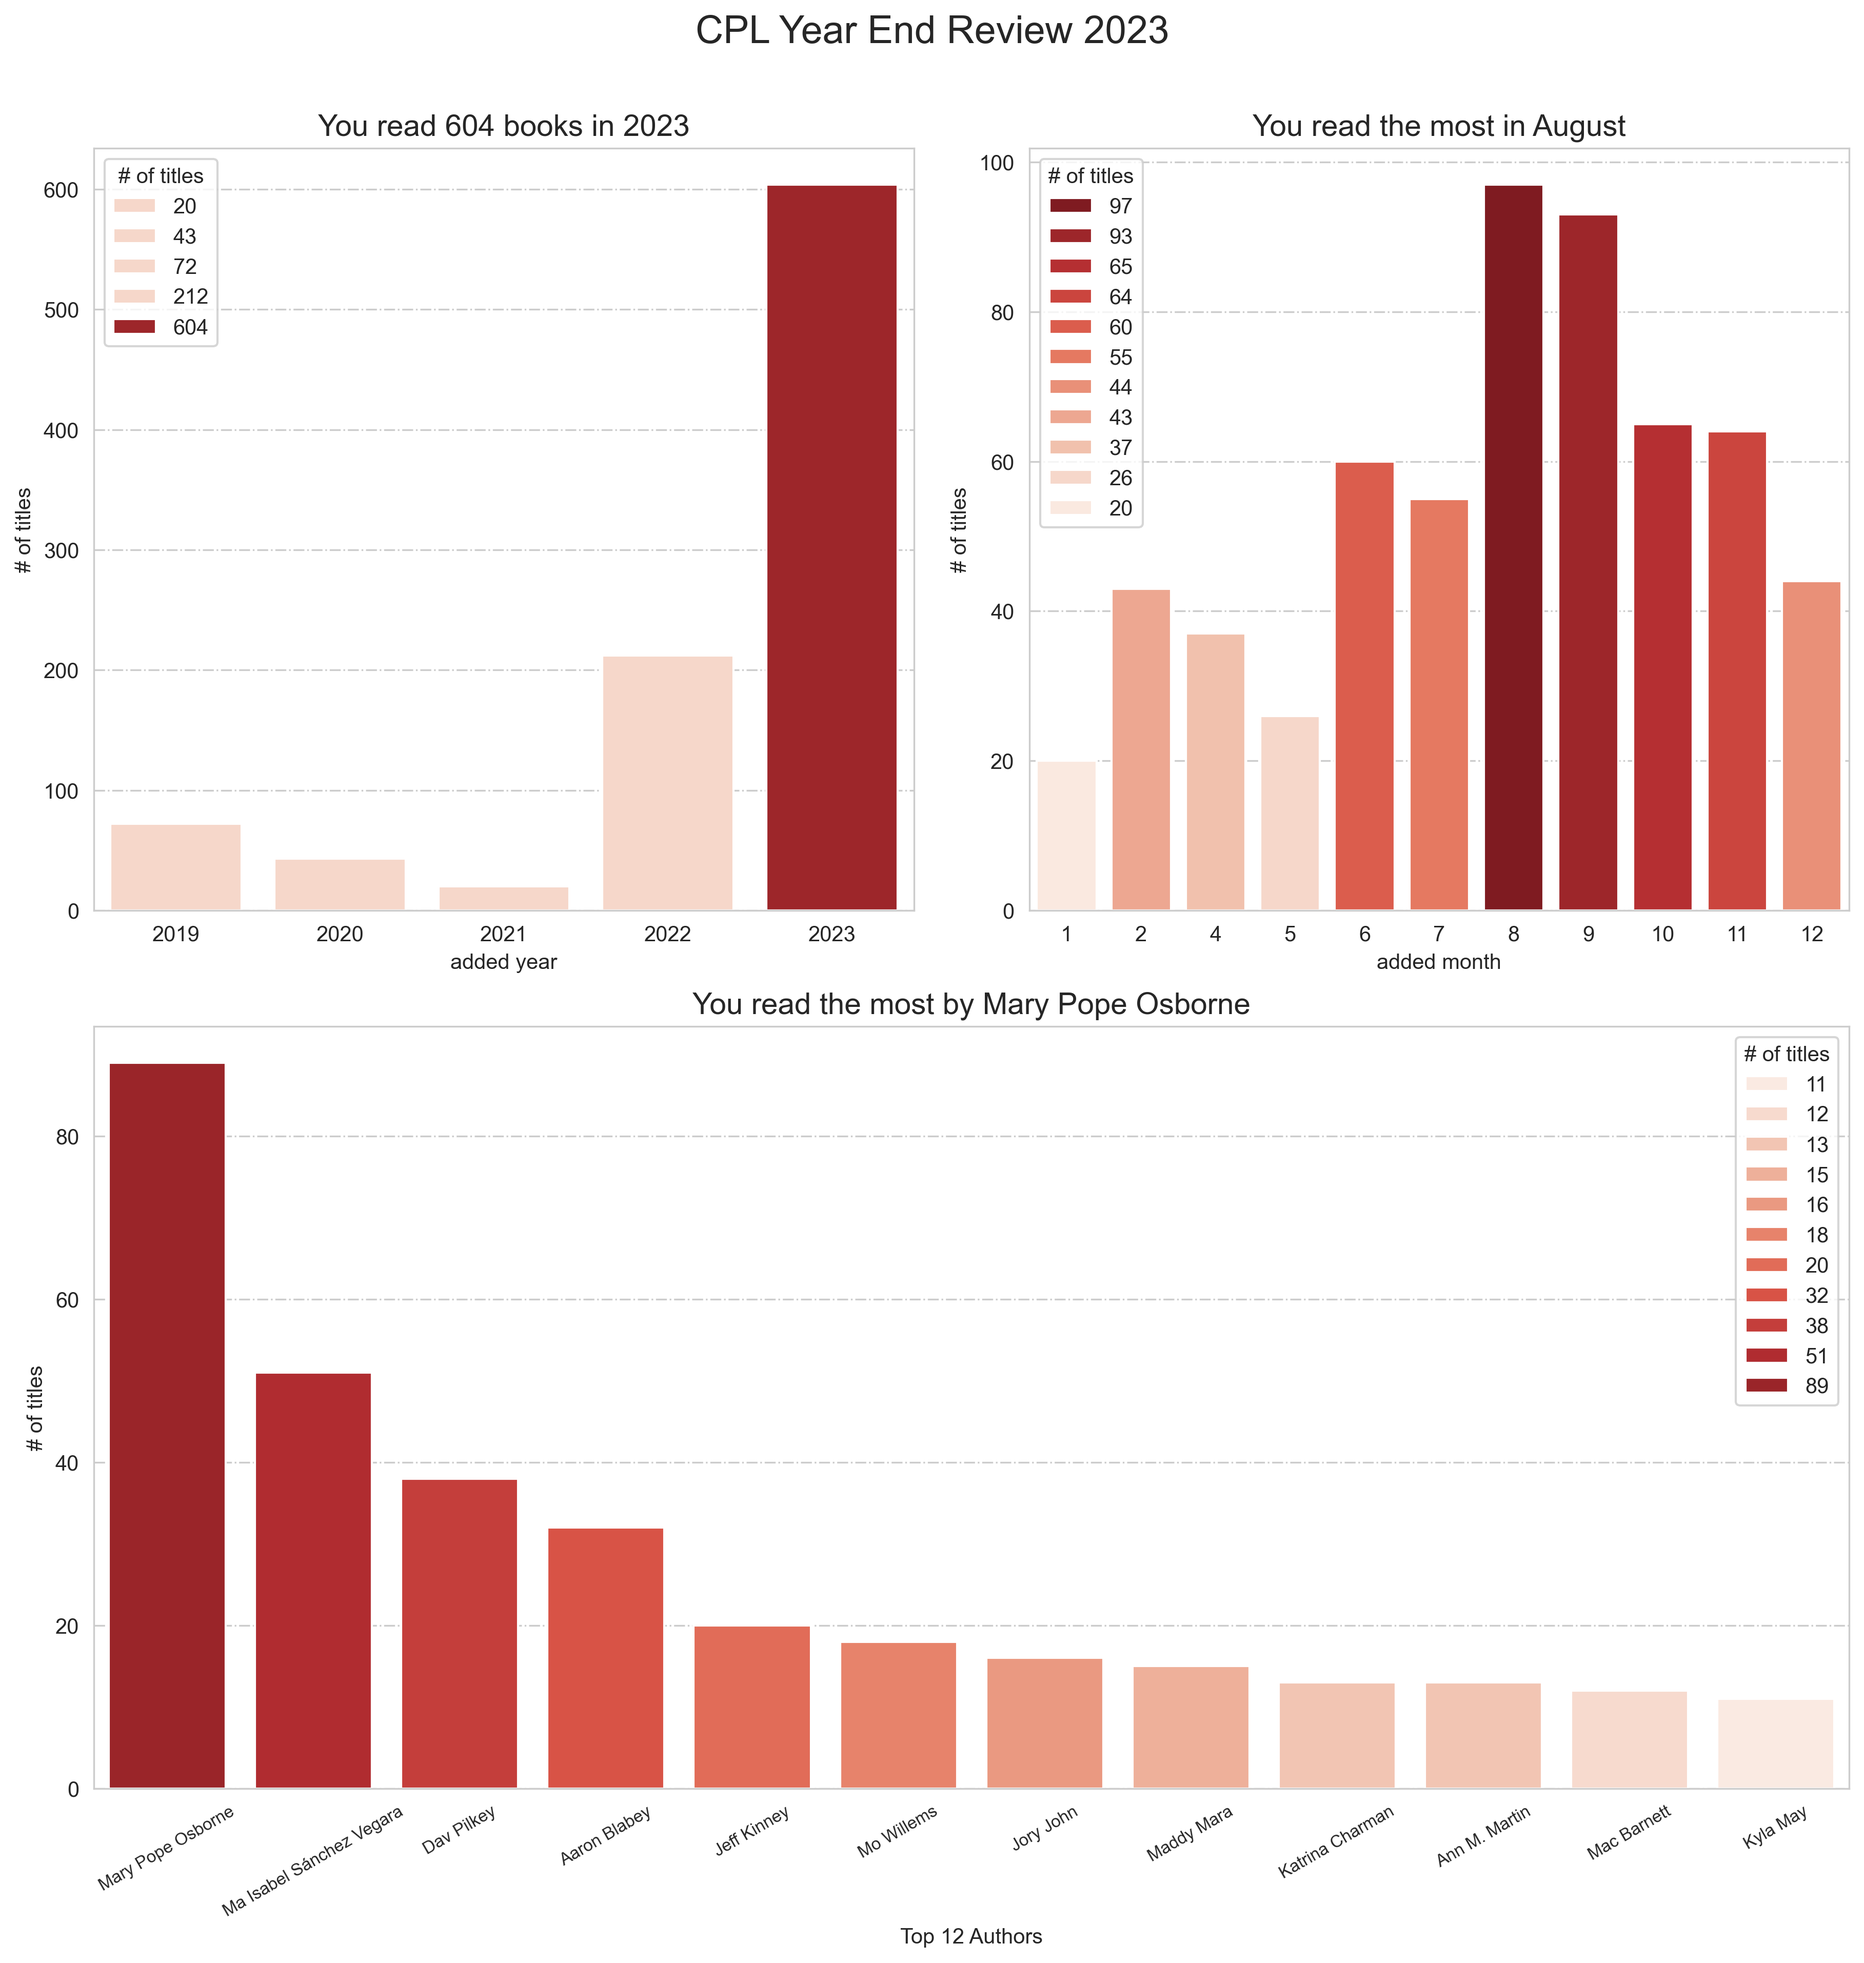
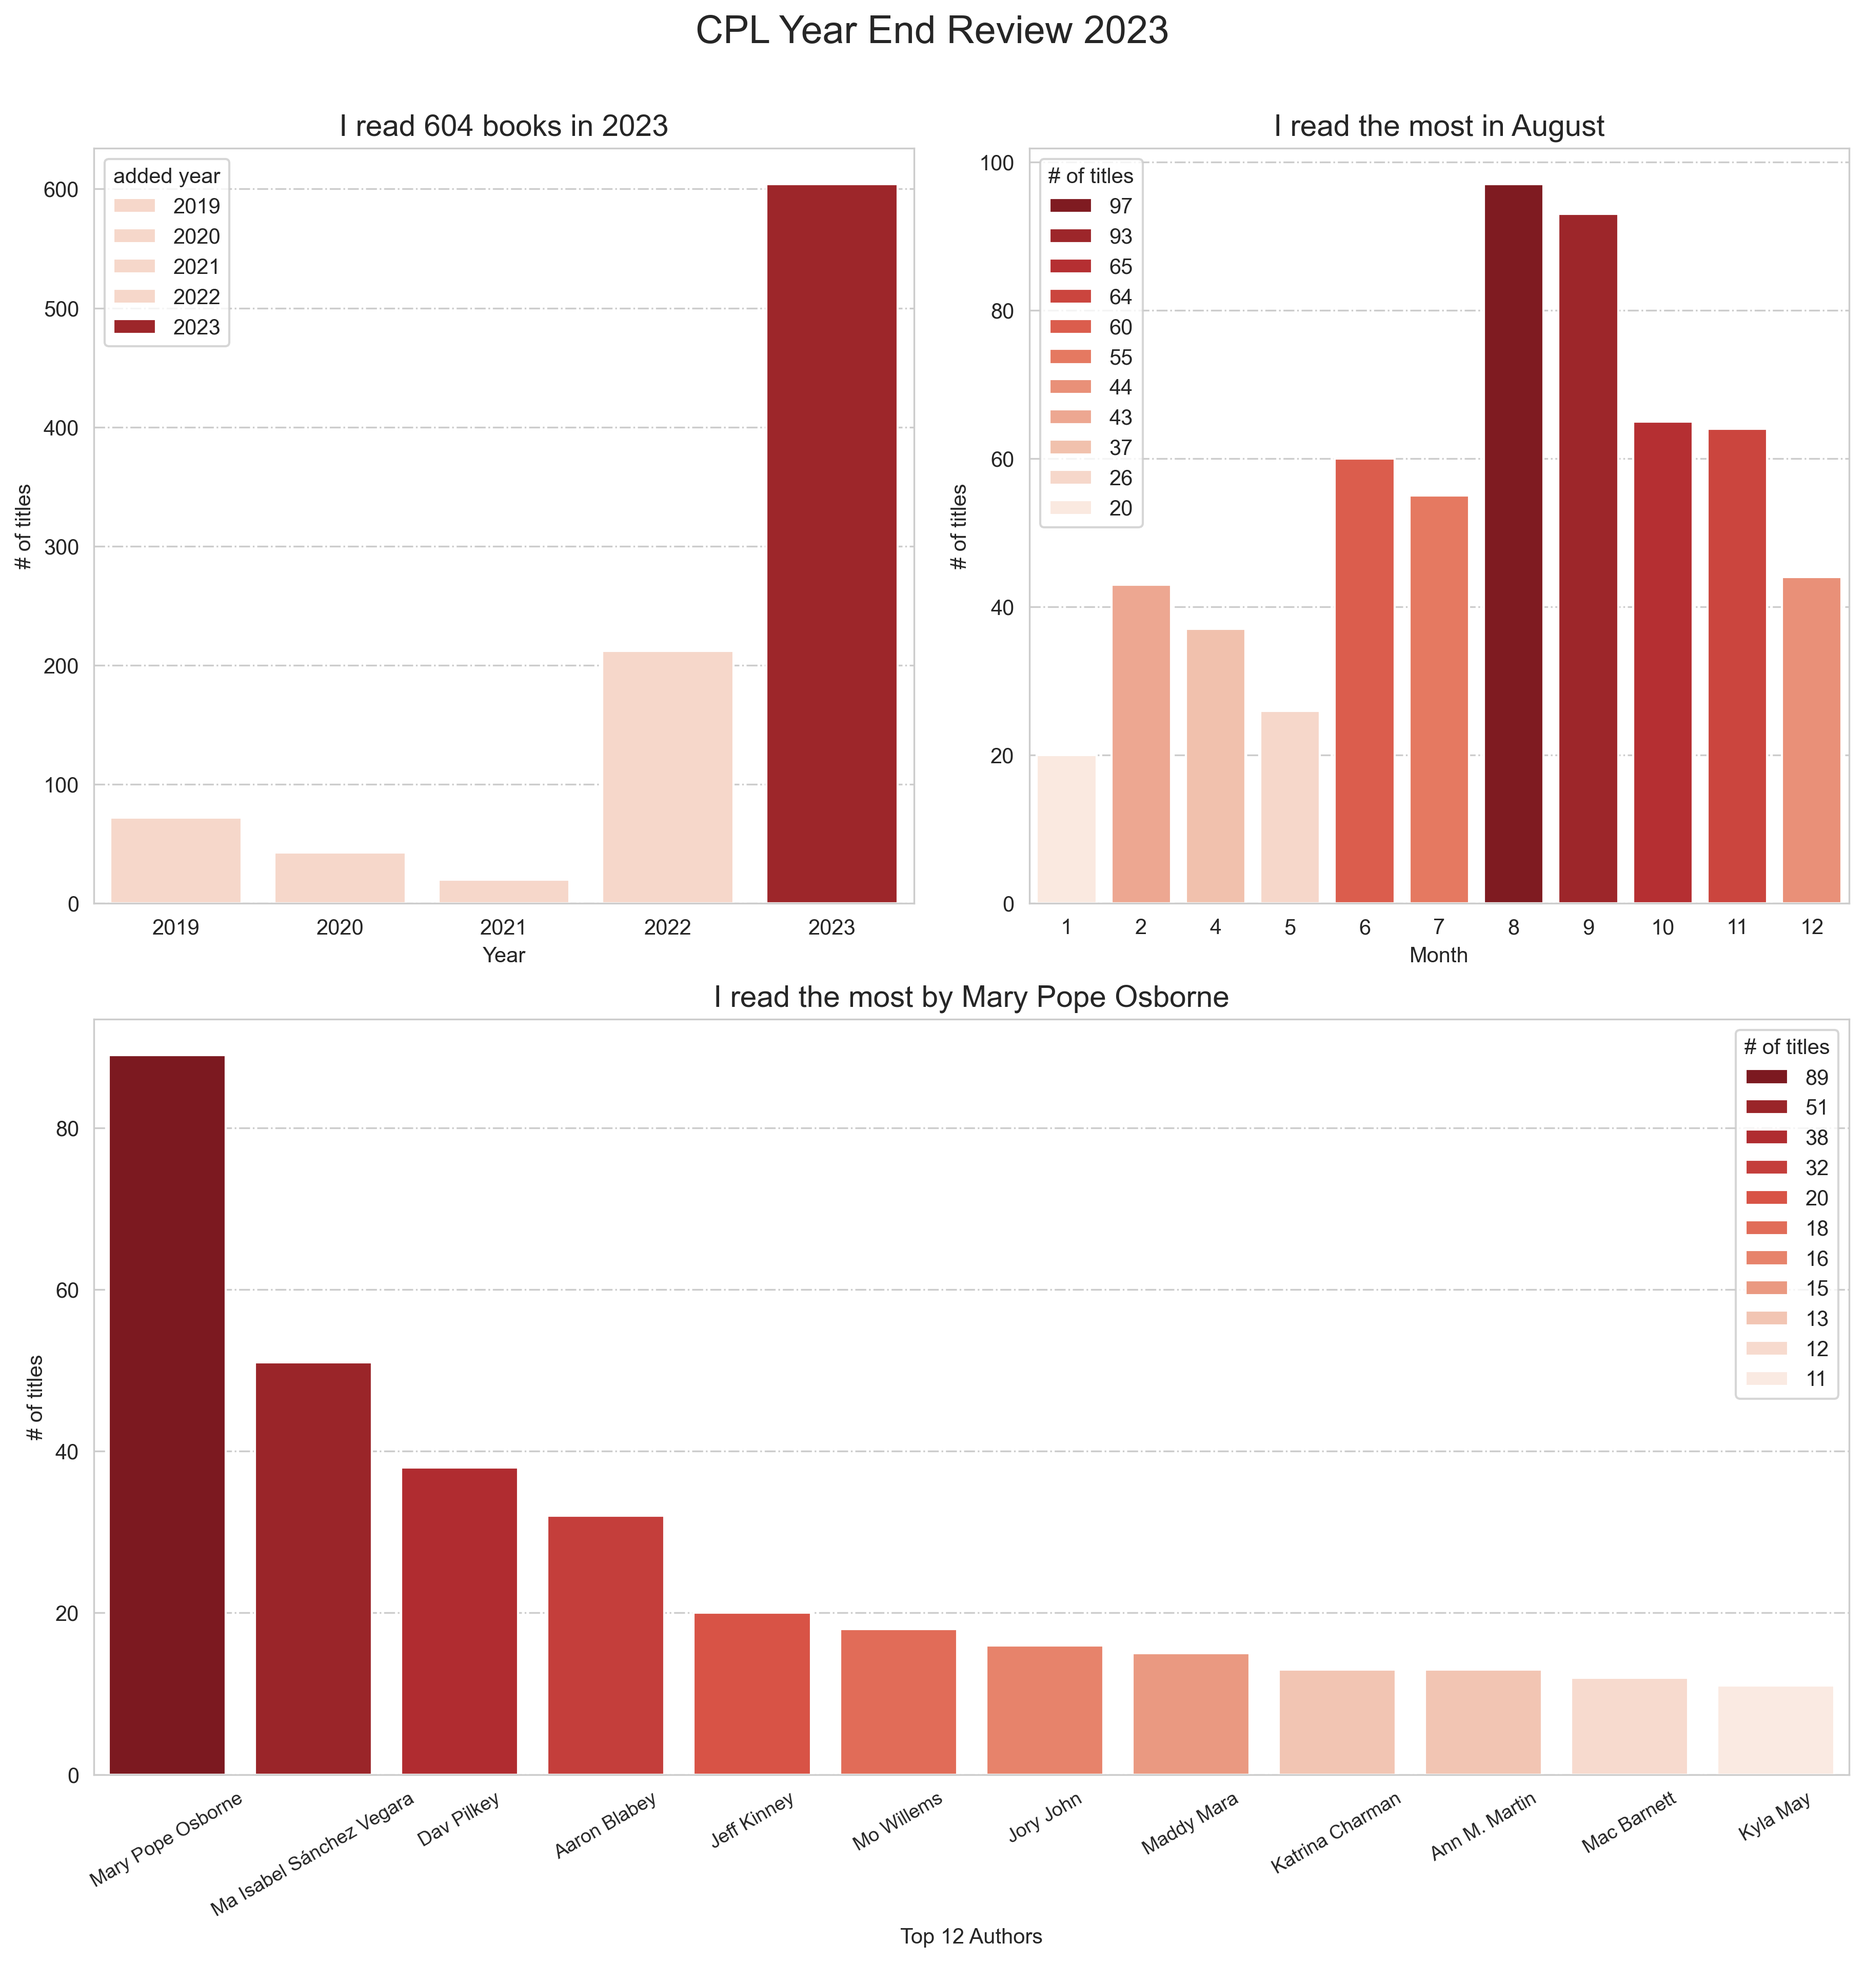
some updates

diff --git a/extract.py b/extract.py
@@ -150,14 +150,16 @@ ax = sns.barplot(
     ax=ax1,
 )
 total = summary1["# of titles"].iloc[-1]
-ax.set_title(f"You read {total} books in {year}", {"fontsize": 14})
+ax.set_xlabel("Year")
+ax.set_title(f"I read {total} books in {year}", {"fontsize": 14})
 
 # ax2
+num_palettes = summary2["# of titles"].value_counts().count()
 ax = sns.barplot(
     data=summary2,
     x="added month",
     y="# of titles",
-    palette=sns.color_palette("Reds_r", summary2["added month"].shape[0]),
+    palette=sns.color_palette("Reds_r", num_palettes),
     hue="# of titles",
     hue_order=summary2["# of titles"].sort_values(ascending=False).values,
     ax=ax2,
@@ -167,21 +169,26 @@ month = calendar.month_name[
         "added month"
     ].iloc[0]
 ]
-ax.set_title(f"You read the most in {month}", {"fontsize": 14})
+ax.set_xlabel("Month")
+ax.set_title(f"I read the most in {month}", {"fontsize": 14})
 
 # ax3
-num_authors = 12
+num_authors = min(12, summary3["author"].nunique())
 ax = sns.barplot(
     data=summary3.head(num_authors),
     x="author",
     y="# of titles",
-    palette=sns.color_palette("Reds_r", num_authors)[::-1],
+    palette=sns.color_palette("Reds_r", num_authors),
+    hue_order=summary3["# of titles"]
+    .sort_values(ascending=False)
+    .head(num_authors)
+    .values,
     hue="# of titles",
     ax=ax3,
 )
 author = summary3.head(1)["author"].iloc[0]
-ax.set_title(f"You read the most by {author}", {"fontsize": 14})
-ax.set_xticklabels(ax.get_xticklabels(), fontsize=8, rotation=30)
+ax.set_title(f"I read the most by {author}", {"fontsize": 14})
+ax.tick_params(axis="x", labelrotation=30, labelsize=9)
 ax.set_xlabel(f"Top {num_authors} Authors")
 fig.savefig(output / f"year-end-review-{year}.png", bbox_inches="tight", dpi=300)
 
